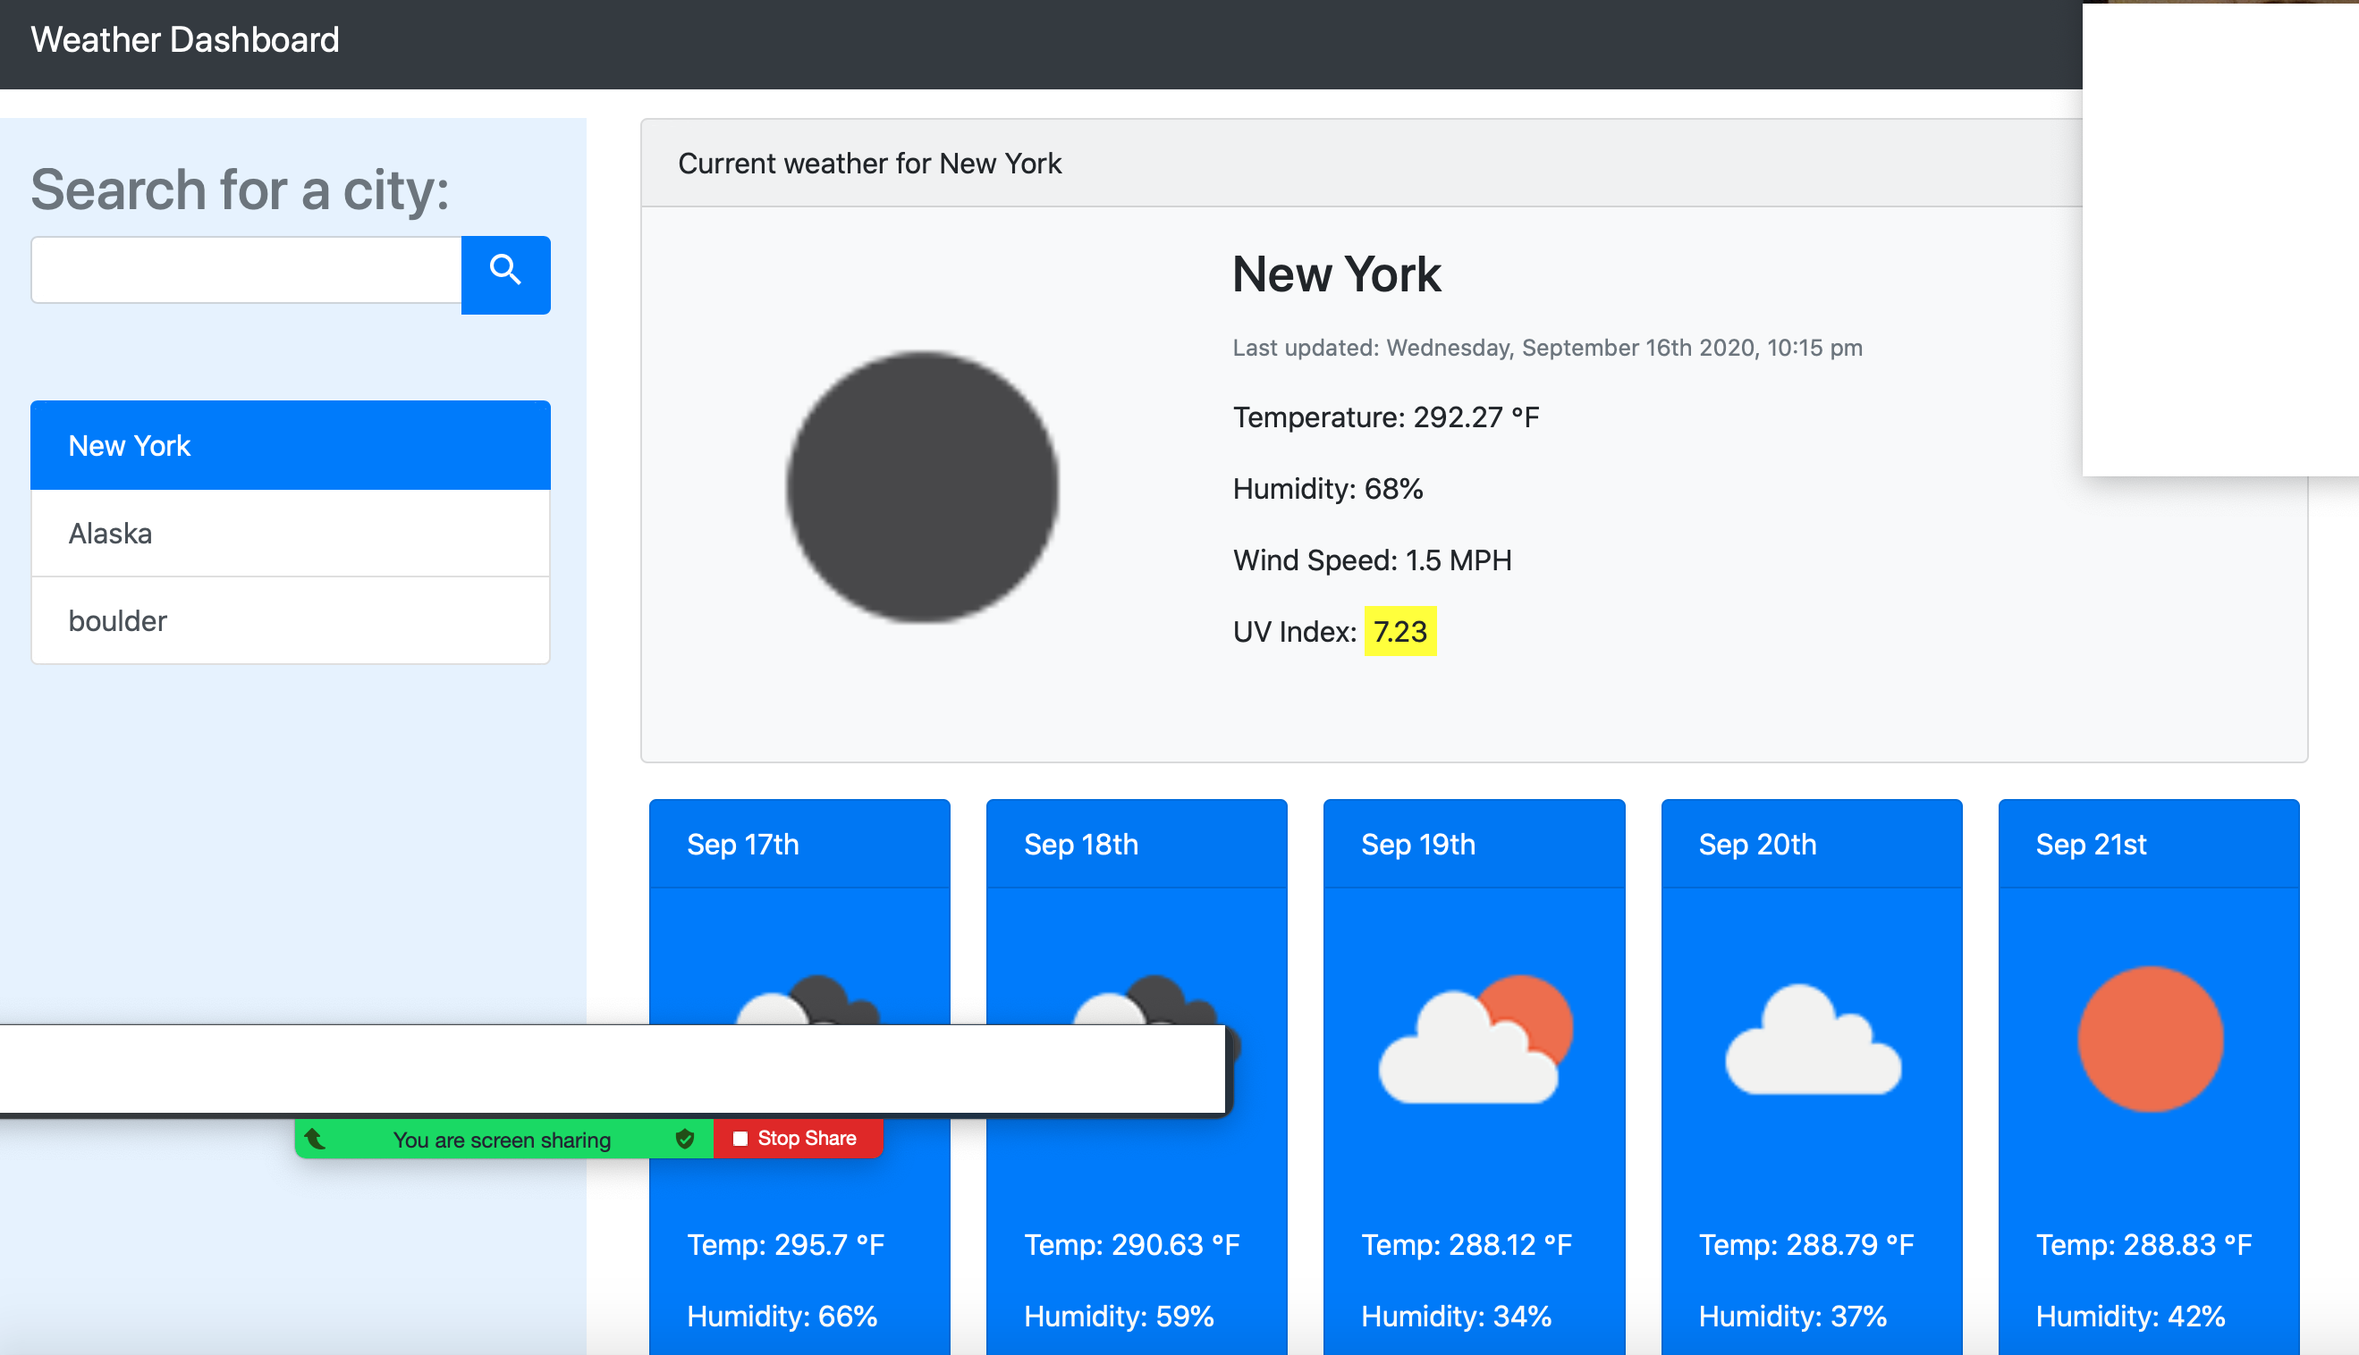
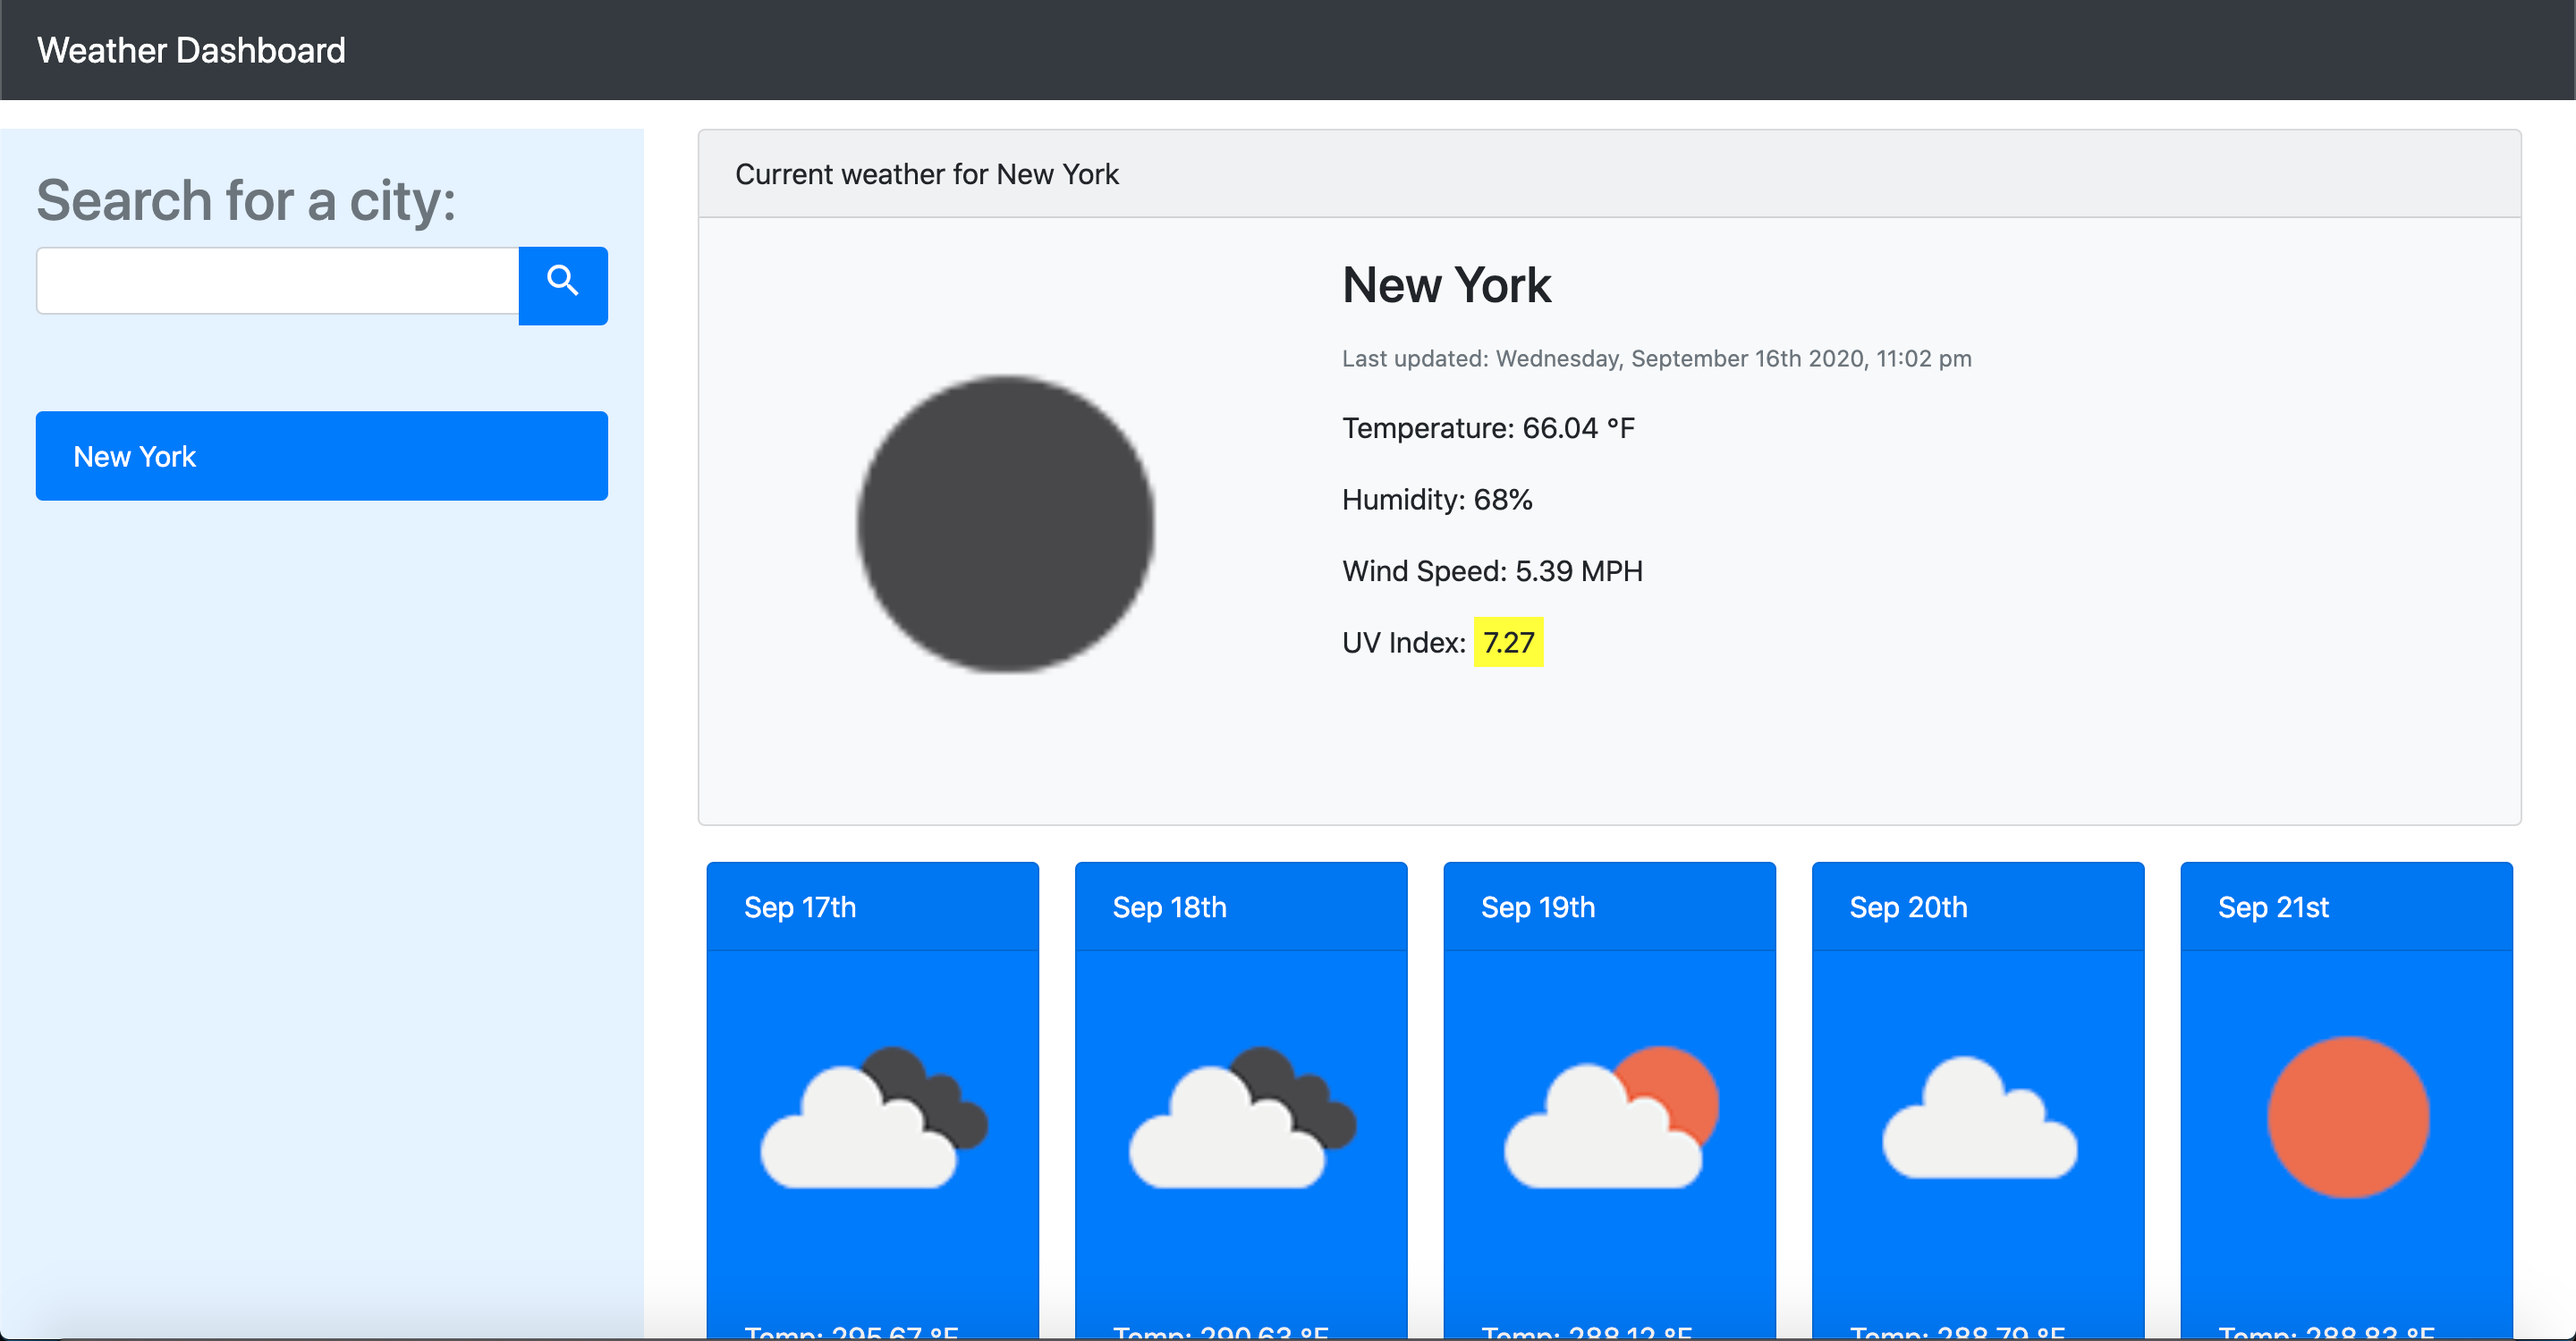
K-F temp; updated readme

diff --git a/script.js b/script.js
@@ -88,8 +88,10 @@ function getCurrent(city) {
         // last update date & time
         var currentDate = moment(response.dt, "X").format("dddd, MMMM Do YYYY, h:mm a");
         cardBody.append($("<p>").attr("class", "card-text").append($("<small>").attr("class", "text-muted").text("Last updated: " + currentDate)));
+        // equation from kelvin to fahrenheit
+        var tempF = (response.main.temp - 273.15) * 1.80 + 32;
         // local temperature at searched city 
-        cardBody.append($("<p>").attr("class", "card-text").html("Temperature: " + response.main.temp + " &#8457;"));
+        cardBody.append($("<p>").attr("class", "card-text").html("Temperature: " + tempF.toFixed(2) + " &#8457;"));
         // local humidity at searched city
         cardBody.append($("<p>").attr("class", "card-text").text("Humidity: " + response.main.humidity + "%"));
         // wind speed ''
@@ -145,6 +147,7 @@ function getForecast(city) {
                 addCard.append(cardImg);
                 var bodyDiv = $("<div>").attr("class", "card-body");
                 addCard.append(bodyDiv);
+                // equation from kelvin to fahrenheit ?
                 bodyDiv.append($("<p>").attr("class", "card-text").html("Temp: " + response.list[i].main.temp + " &#8457;"));
                 bodyDiv.append($("<p>").attr("class", "card-text").text("Humidity: " + response.list[i].main.humidity + "%"));
             }

diff --git a/README.md b/README.md
@@ -1,6 +1,6 @@
 # Weather Dashboard
 
-In this assignment, I curated a page that allows the user to search for a city, or to geolocate to the current city of the user. There is the search 
+In this assignment, I curated a page that allows the user to search for a city, or to geo-locate to the current city of the user. There is the search bar on the left hand side where the local storage will display under. On the main interface (to the right) there is the forecast for the day, and below that is a 5 day forecast.
 
 <img src="Assets/pic1.png"/>
 
